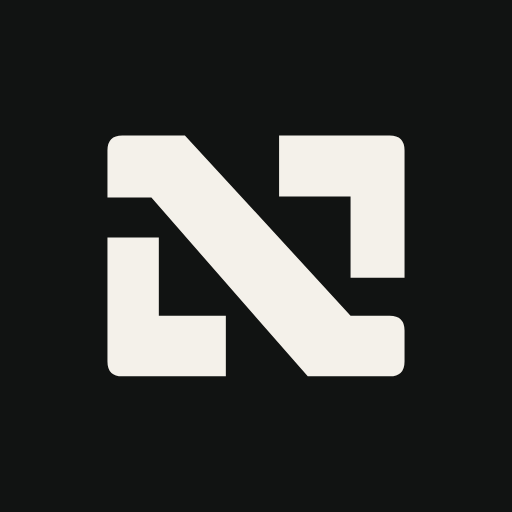
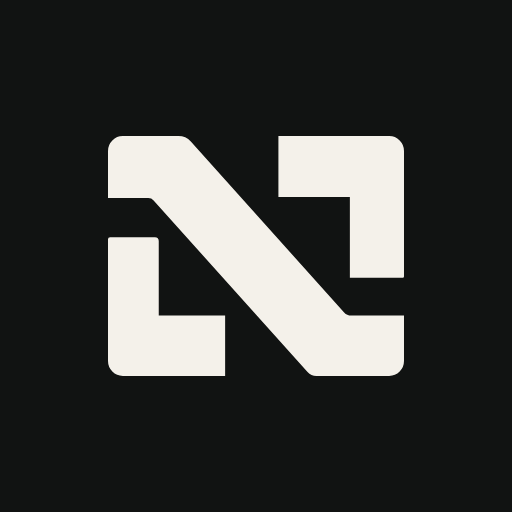
One true N: the mark rebuilt from the original artwork, everywhere
The vector N had drifted from the original mark (10.4% of pixels off),
and the app icons used an older, steeper N. Rebuilt the mark as three
clean shapes measured from the v3 brand book artwork (within 0.6%, the
rest is the PNG's own stair-stepping) and applied it in brand colors:
- photos/logo: nenemi-mark.svg (ink), new nenemi-mark-white.svg (warm
  white), n-mark.svg, and both stacked lockup PNGs (wordmark untouched)
- app: splash, 19b name card, header mark, favicon (index.html + the two
  prototype copies, byte-identical)
- icons: n-180, n-192, n-512, maskable-512, iOS AppIcon (warm white
  #F4F1EA on ink #111312, same size and placement as before)
- welcome.html header and footer marks
- Brand Book v4: every mark uses the new paths
sw.js cache bumped to v5 so installed apps pick up the new icons.
QA sweep 34/34 PASS.

Claude-Session: https://claude.ai/code/session_017xgkWVjvCdAF3e8sUfJeBE

diff --git a/index.html b/index.html
@@ -20,7 +20,7 @@
 <meta name="description" content="A memory app for ADHD brains. Rooms hold your context so you never restart from zero." />
 <meta name="theme-color" content="#0A0A0A" />
 <link rel="manifest" href="/manifest.webmanifest?v=2" />
[2 lines of base64/hex data omitted]
 <link rel="apple-touch-icon" href="/icons/n-180.png" />
 <meta name="apple-mobile-web-app-capable" content="yes" />
 <meta name="mobile-web-app-capable" content="yes" />
@@ -2213,7 +2213,7 @@
 <!-- the splash: every load, for everyone. pure CSS timing; the script removes it at 2s (or on a tap / key) and says so. -->
 <div id="nxSplash" aria-hidden="true">
   <div class="nx-splash-float">
-    <svg class="nx-splash-mark" viewBox="92 168 838 687"><g fill="#FFFFFF"><path d="M152 188 H320 L765 672 H870 Q910 672 910 712 V795 Q910 835 870 835 H650 L230 355 H112 V228 Q112 188 152 188 Z"/><path d="M573 188 H870 Q910 188 910 228 V570 H765 V352 H573 Z"/><path d="M112 462 H250 V672 H430 V835 H152 Q112 835 112 795 Z"/></g></svg>
+    <svg class="nx-splash-mark" viewBox="0 0 1400 1134"><g fill="#FFFFFF"><path d="M0 70A70 70 0 0 1 70 0H333Q368.3 0 391.7 26L1116.9 834.1Q1130.3 849 1150.3 849H1400V1064A70 70 0 0 1 1330 1134H985.5Q960.5 1134 943.8 1115.4L215.7 304.2Q205.7 293 190.7 293H0Z"/><path d="M806 0H1330A70 70 0 0 1 1400 70V664Q1400 670 1394 670H1144V288H806Z"/><path d="M0 488Q0 478 10 478H222Q240 478 240 496V849H554V1134H70A70 70 0 0 1 0 1064Z"/></g></svg>
     <div class="nx-splash-word">NENEMI</div>
   </div>
 </div>
@@ -2360,7 +2360,7 @@
 
   <!-- 19b: the name, the same moment as the footer on mynenemi.com -->
   <section class="card nenemi-definition-card" id="ob-definition">
-    <svg class="name-mark" viewBox="92 168 838 687" aria-hidden="true"><g fill="#FFFFFF"><path d="M152 188 H320 L765 672 H870 Q910 672 910 712 V795 Q910 835 870 835 H650 L230 355 H112 V228 Q112 188 152 188 Z"/><path d="M573 188 H870 Q910 188 910 228 V570 H765 V352 H573 Z"/><path d="M112 462 H250 V672 H430 V835 H152 Q112 835 112 795 Z"/></g></svg>
+    <svg class="name-mark" viewBox="0 0 1400 1134" aria-hidden="true"><g fill="#FFFFFF"><path d="M0 70A70 70 0 0 1 70 0H333Q368.3 0 391.7 26L1116.9 834.1Q1130.3 849 1150.3 849H1400V1064A70 70 0 0 1 1330 1134H985.5Q960.5 1134 943.8 1115.4L215.7 304.2Q205.7 293 190.7 293H0Z"/><path d="M806 0H1330A70 70 0 0 1 1400 70V664Q1400 670 1394 670H1144V288H806Z"/><path d="M0 488Q0 478 10 478H222Q240 478 240 496V849H554V1134H70A70 70 0 0 1 0 1064Z"/></g></svg>
     <p class="name-kicker">The name</p>
     <p class="name-brand">NENEMI</p>
     <h2 class="name-say">neh-NEH-mee</h2>
@@ -2524,7 +2524,7 @@
       </div>
     </div>
     <div class="wordmark" aria-label="Nenemi" onclick="goSanctuary()">
[2 lines of base64/hex data omitted]
       <span class="wm-text">NENEMI</span>
     </div>
     <div class="nav-overlay" id="navOverlay" onclick="closeNavDrawer()"></div>

diff --git a/nenemi-handover/prototypes/index.html b/nenemi-handover/prototypes/index.html
@@ -20,7 +20,7 @@
 <meta name="description" content="A memory app for ADHD brains. Rooms hold your context so you never restart from zero." />
 <meta name="theme-color" content="#0A0A0A" />
 <link rel="manifest" href="/manifest.webmanifest?v=2" />
[2 lines of base64/hex data omitted]
 <link rel="apple-touch-icon" href="/icons/n-180.png" />
 <meta name="apple-mobile-web-app-capable" content="yes" />
 <meta name="mobile-web-app-capable" content="yes" />
@@ -2213,7 +2213,7 @@
 <!-- the splash: every load, for everyone. pure CSS timing; the script removes it at 2s (or on a tap / key) and says so. -->
 <div id="nxSplash" aria-hidden="true">
   <div class="nx-splash-float">
-    <svg class="nx-splash-mark" viewBox="92 168 838 687"><g fill="#FFFFFF"><path d="M152 188 H320 L765 672 H870 Q910 672 910 712 V795 Q910 835 870 835 H650 L230 355 H112 V228 Q112 188 152 188 Z"/><path d="M573 188 H870 Q910 188 910 228 V570 H765 V352 H573 Z"/><path d="M112 462 H250 V672 H430 V835 H152 Q112 835 112 795 Z"/></g></svg>
+    <svg class="nx-splash-mark" viewBox="0 0 1400 1134"><g fill="#FFFFFF"><path d="M0 70A70 70 0 0 1 70 0H333Q368.3 0 391.7 26L1116.9 834.1Q1130.3 849 1150.3 849H1400V1064A70 70 0 0 1 1330 1134H985.5Q960.5 1134 943.8 1115.4L215.7 304.2Q205.7 293 190.7 293H0Z"/><path d="M806 0H1330A70 70 0 0 1 1400 70V664Q1400 670 1394 670H1144V288H806Z"/><path d="M0 488Q0 478 10 478H222Q240 478 240 496V849H554V1134H70A70 70 0 0 1 0 1064Z"/></g></svg>
     <div class="nx-splash-word">NENEMI</div>
   </div>
 </div>
@@ -2360,7 +2360,7 @@
 
   <!-- 19b: the name, the same moment as the footer on mynenemi.com -->
   <section class="card nenemi-definition-card" id="ob-definition">
-    <svg class="name-mark" viewBox="92 168 838 687" aria-hidden="true"><g fill="#FFFFFF"><path d="M152 188 H320 L765 672 H870 Q910 672 910 712 V795 Q910 835 870 835 H650 L230 355 H112 V228 Q112 188 152 188 Z"/><path d="M573 188 H870 Q910 188 910 228 V570 H765 V352 H573 Z"/><path d="M112 462 H250 V672 H430 V835 H152 Q112 835 112 795 Z"/></g></svg>
+    <svg class="name-mark" viewBox="0 0 1400 1134" aria-hidden="true"><g fill="#FFFFFF"><path d="M0 70A70 70 0 0 1 70 0H333Q368.3 0 391.7 26L1116.9 834.1Q1130.3 849 1150.3 849H1400V1064A70 70 0 0 1 1330 1134H985.5Q960.5 1134 943.8 1115.4L215.7 304.2Q205.7 293 190.7 293H0Z"/><path d="M806 0H1330A70 70 0 0 1 1400 70V664Q1400 670 1394 670H1144V288H806Z"/><path d="M0 488Q0 478 10 478H222Q240 478 240 496V849H554V1134H70A70 70 0 0 1 0 1064Z"/></g></svg>
     <p class="name-kicker">The name</p>
     <p class="name-brand">NENEMI</p>
     <h2 class="name-say">neh-NEH-mee</h2>
@@ -2524,7 +2524,7 @@
       </div>
     </div>
     <div class="wordmark" aria-label="Nenemi" onclick="goSanctuary()">
[2 lines of base64/hex data omitted]
       <span class="wm-text">NENEMI</span>
     </div>
     <div class="nav-overlay" id="navOverlay" onclick="closeNavDrawer()"></div>

diff --git a/nenemi-handover/prototypes/nenemi-prototype-desktop.html b/nenemi-handover/prototypes/nenemi-prototype-desktop.html
@@ -20,7 +20,7 @@
 <meta name="description" content="A memory app for ADHD brains. Rooms hold your context so you never restart from zero." />
 <meta name="theme-color" content="#0A0A0A" />
 <link rel="manifest" href="/manifest.webmanifest?v=2" />
[2 lines of base64/hex data omitted]
 <link rel="apple-touch-icon" href="/icons/n-180.png" />
 <meta name="apple-mobile-web-app-capable" content="yes" />
 <meta name="mobile-web-app-capable" content="yes" />
@@ -2213,7 +2213,7 @@
 <!-- the splash: every load, for everyone. pure CSS timing; the script removes it at 2s (or on a tap / key) and says so. -->
 <div id="nxSplash" aria-hidden="true">
   <div class="nx-splash-float">
-    <svg class="nx-splash-mark" viewBox="92 168 838 687"><g fill="#FFFFFF"><path d="M152 188 H320 L765 672 H870 Q910 672 910 712 V795 Q910 835 870 835 H650 L230 355 H112 V228 Q112 188 152 188 Z"/><path d="M573 188 H870 Q910 188 910 228 V570 H765 V352 H573 Z"/><path d="M112 462 H250 V672 H430 V835 H152 Q112 835 112 795 Z"/></g></svg>
+    <svg class="nx-splash-mark" viewBox="0 0 1400 1134"><g fill="#FFFFFF"><path d="M0 70A70 70 0 0 1 70 0H333Q368.3 0 391.7 26L1116.9 834.1Q1130.3 849 1150.3 849H1400V1064A70 70 0 0 1 1330 1134H985.5Q960.5 1134 943.8 1115.4L215.7 304.2Q205.7 293 190.7 293H0Z"/><path d="M806 0H1330A70 70 0 0 1 1400 70V664Q1400 670 1394 670H1144V288H806Z"/><path d="M0 488Q0 478 10 478H222Q240 478 240 496V849H554V1134H70A70 70 0 0 1 0 1064Z"/></g></svg>
     <div class="nx-splash-word">NENEMI</div>
   </div>
 </div>
@@ -2360,7 +2360,7 @@
 
   <!-- 19b: the name, the same moment as the footer on mynenemi.com -->
   <section class="card nenemi-definition-card" id="ob-definition">
-    <svg class="name-mark" viewBox="92 168 838 687" aria-hidden="true"><g fill="#FFFFFF"><path d="M152 188 H320 L765 672 H870 Q910 672 910 712 V795 Q910 835 870 835 H650 L230 355 H112 V228 Q112 188 152 188 Z"/><path d="M573 188 H870 Q910 188 910 228 V570 H765 V352 H573 Z"/><path d="M112 462 H250 V672 H430 V835 H152 Q112 835 112 795 Z"/></g></svg>
+    <svg class="name-mark" viewBox="0 0 1400 1134" aria-hidden="true"><g fill="#FFFFFF"><path d="M0 70A70 70 0 0 1 70 0H333Q368.3 0 391.7 26L1116.9 834.1Q1130.3 849 1150.3 849H1400V1064A70 70 0 0 1 1330 1134H985.5Q960.5 1134 943.8 1115.4L215.7 304.2Q205.7 293 190.7 293H0Z"/><path d="M806 0H1330A70 70 0 0 1 1400 70V664Q1400 670 1394 670H1144V288H806Z"/><path d="M0 488Q0 478 10 478H222Q240 478 240 496V849H554V1134H70A70 70 0 0 1 0 1064Z"/></g></svg>
     <p class="name-kicker">The name</p>
     <p class="name-brand">NENEMI</p>
     <h2 class="name-say">neh-NEH-mee</h2>
@@ -2524,7 +2524,7 @@
       </div>
     </div>
     <div class="wordmark" aria-label="Nenemi" onclick="goSanctuary()">
[2 lines of base64/hex data omitted]
       <span class="wm-text">NENEMI</span>
     </div>
     <div class="nav-overlay" id="navOverlay" onclick="closeNavDrawer()"></div>

diff --git a/welcome.html b/welcome.html
@@ -332,7 +332,7 @@
 
 <div class="reveal">
 <nav class="nav"><div class="wrap nav-in">
[2 lines of base64/hex data omitted]
   <div class="nav-r">
     <a class="lk desk" href="#day">Day</a>
     <a class="lk desk" href="#rooms">Rooms</a>
@@ -519,7 +519,7 @@
   </svg>
   <div class="wrap">
   <div class="foot-center">
[2 lines of base64/hex data omitted]
     <p class="foot-eyebrow">The name</p>
     <p class="foot-name">NENEMI</p>
     <p class="foot-say-it">neh-NEH-mee</p>

diff --git a/nenemi-handover/docs/nenemi-brand-book.html b/nenemi-handover/docs/nenemi-brand-book.html
@@ -253,18 +253,18 @@
 </head>
 <body>
 
-<!-- the mark: same paths as photos/logo/nenemi-mark.svg and the app's splash -->
+<!-- the mark: rebuilt from the original v3 mark artwork (within 0.6%); same paths as photos/logo/nenemi-mark.svg, the app's splash and 19b -->
 <svg width="0" height="0" style="position:absolute" aria-hidden="true">
-  <symbol id="n" viewBox="92 168 838 687"><path d="M152 188 H320 L765 672 H870 Q910 672 910 712 V795 Q910 835 870 835 H650 L230 355 H112 V228 Q112 188 152 188 Z"/><path d="M573 188 H870 Q910 188 910 228 V570 H765 V352 H573 Z"/><path d="M112 462 H250 V672 H430 V835 H152 Q112 835 112 795 Z"/></symbol>
+  <symbol id="n" viewBox="0 0 1400 1134"><path d="M0 70A70 70 0 0 1 70 0H333Q368.3 0 391.7 26L1116.9 834.1Q1130.3 849 1150.3 849H1400V1064A70 70 0 0 1 1330 1134H985.5Q960.5 1134 943.8 1115.4L215.7 304.2Q205.7 293 190.7 293H0Z"/><path d="M806 0H1330A70 70 0 0 1 1400 70V664Q1400 670 1394 670H1144V288H806Z"/><path d="M0 488Q0 478 10 478H222Q240 478 240 496V849H554V1134H70A70 70 0 0 1 0 1064Z"/></symbol>
 </svg>
 
 <div class="docbar"><div class="wrap">
-  <div class="brand"><svg class="n" viewBox="92 168 838 687"><use href="#n"/></svg><span class="wm">NENEMI</span></div>
+  <div class="brand"><svg class="n" viewBox="0 0 1400 1134"><use href="#n"/></svg><span class="wm">NENEMI</span></div>
   <nav><a href="#story">Story</a><a href="#mark">Mark</a><a href="#color">Color</a><a href="#type">Type</a><a href="#shape">Shape</a><a href="#ui">UI</a><a href="#screens">Screens</a><a href="#rules">Rules</a><a href="#voice">Voice</a><a href="#research">Research</a><a href="#qa">QA</a></nav>
 </div></div>
 
 <header class="cover"><div class="wrap">
-  <svg class="n mark" viewBox="92 168 838 687" role="img" aria-label="NENEMI"><use href="#n"/></svg>
+  <svg class="n mark" viewBox="0 0 1400 1134" role="img" aria-label="NENEMI"><use href="#n"/></svg>
   <div class="eyebrow">Brand Book · v4.0 · Monochrome</div>
   <h1 class="display">NENEMI.<br>The box.</h1>
   <p class="sub">People with ADHD have every crayon and no box. <strong>Nenemi is the box</strong>: somewhere to put a thought down without organizing it first, and pick it back up exactly where you left it. <em>Nenemi</em> is Nahuatl for <strong>to walk, to go about</strong>. Your path doesn't have to be straight to keep moving.</p>
@@ -296,7 +296,7 @@
   <h3>The name</h3>
   <div class="grid g2" style="align-items:center">
     <div class="name-card">
-      <svg class="n" viewBox="92 168 838 687"><use href="#n"/></svg>
+      <svg class="n" viewBox="0 0 1400 1134"><use href="#n"/></svg>
       <div class="k">The name</div>
       <div class="w">NENEMI</div>
       <div class="p">neh-NEH-mee</div>
@@ -329,16 +329,16 @@
   <p>The terraces nod to the Aztec <em>xicalcoliuhqui</em>, the stepped fret carved at Teotihuacan and Templo Mayor. Stone steps you climb, leave, and come back to, and they stay exactly as they were.</p>
 
   <div class="grid g4" style="margin-top:24px">
-    <div><div class="lk white"><svg class="n" viewBox="92 168 838 687"><use href="#n"/></svg></div><div class="lk-cap">Symbol · primary</div></div>
-    <div><div class="lk ink"><svg class="n" viewBox="92 168 838 687"><use href="#n"/></svg></div><div class="lk-cap">Symbol · on ink (splash)</div></div>
-    <div><div class="lk white"><svg class="n" viewBox="92 168 838 687" style="width:44px;height:36px"><use href="#n"/></svg><span class="wm">NENEMI</span></div><div class="lk-cap">Horizontal lockup</div></div>
-    <div><div class="lk ink" style="flex-direction:column;gap:14px"><svg class="n" viewBox="92 168 838 687" style="width:52px;height:43px"><use href="#n"/></svg><span class="wm" style="font-size:13px;letter-spacing:.36em;padding-left:.36em">NENEMI</span></div><div class="lk-cap">Stacked · the splash</div></div>
+    <div><div class="lk white"><svg class="n" viewBox="0 0 1400 1134"><use href="#n"/></svg></div><div class="lk-cap">Symbol · primary</div></div>
+    <div><div class="lk ink"><svg class="n" viewBox="0 0 1400 1134"><use href="#n"/></svg></div><div class="lk-cap">Symbol · on ink (splash)</div></div>
+    <div><div class="lk white"><svg class="n" viewBox="0 0 1400 1134" style="width:44px;height:36px"><use href="#n"/></svg><span class="wm">NENEMI</span></div><div class="lk-cap">Horizontal lockup</div></div>
+    <div><div class="lk ink" style="flex-direction:column;gap:14px"><svg class="n" viewBox="0 0 1400 1134" style="width:52px;height:43px"><use href="#n"/></svg><span class="wm" style="font-size:13px;letter-spacing:.36em;padding-left:.36em">NENEMI</span></div><div class="lk-cap">Stacked · the splash</div></div>
   </div>
 
   <h3>App tile</h3>
   <div class="grid g4">
-    <div><div class="lk ground" style="min-height:auto"><div class="tile" style="background:var(--ink);color:#fff"><svg class="n" viewBox="92 168 838 687"><use href="#n"/></svg></div></div><div class="lk-cap">White on ink · primary</div></div>
-    <div><div class="lk ground" style="min-height:auto"><div class="tile" style="background:#fff;border:1px solid var(--line)"><svg class="n" viewBox="92 168 838 687"><use href="#n"/></svg></div></div><div class="lk-cap">Ink on white</div></div>
+    <div><div class="lk ground" style="min-height:auto"><div class="tile" style="background:var(--ink);color:#fff"><svg class="n" viewBox="0 0 1400 1134"><use href="#n"/></svg></div></div><div class="lk-cap">White on ink · primary</div></div>
+    <div><div class="lk ground" style="min-height:auto"><div class="tile" style="background:#fff;border:1px solid var(--line)"><svg class="n" viewBox="0 0 1400 1134"><use href="#n"/></svg></div></div><div class="lk-cap">Ink on white</div></div>
   </div>
 
   <h3>Wordmark, clear space, size</h3>
@@ -347,10 +347,10 @@
 
   <h3>Do &amp; don't</h3>
   <div class="grid g4 dd">
-    <div class="card"><div class="stg" style="background:#fff;border:1px solid var(--line)"><svg class="n" viewBox="92 168 838 687"><use href="#n"/></svg></div><div class="verdict"><i class="ok">✓</i><span>Solid ink on white or ground.</span></div></div>
-    <div class="card"><div class="stg" style="background:var(--ink);color:#fff"><svg class="n" viewBox="92 168 838 687"><use href="#n"/></svg></div><div class="verdict"><i class="ok">✓</i><span>White on ink.</span></div></div>
-    <div class="card"><div class="stg"><svg class="n" viewBox="92 168 838 687" preserveAspectRatio="none" style="width:104px;height:38px"><use href="#n"/></svg></div><div class="verdict"><i class="no">✕</i><span>Don't stretch or squash.</span></div></div>
-    <div class="card"><div class="stg" style="background:var(--teal);color:#fff"><svg class="n" viewBox="92 168 838 687"><use href="#n"/></svg></div><div class="verdict"><i class="no">✕</i><span>Don't put it on color. Not teal, not maíz, not a gradient. (v3 allowed teal and maíz tiles; v4 retires them.)</span></div></div>
+    <div class="card"><div class="stg" style="background:#fff;border:1px solid var(--line)"><svg class="n" viewBox="0 0 1400 1134"><use href="#n"/></svg></div><div class="verdict"><i class="ok">✓</i><span>Solid ink on white or ground.</span></div></div>
+    <div class="card"><div class="stg" style="background:var(--ink);color:#fff"><svg class="n" viewBox="0 0 1400 1134"><use href="#n"/></svg></div><div class="verdict"><i class="ok">✓</i><span>White on ink.</span></div></div>
+    <div class="card"><div class="stg"><svg class="n" viewBox="0 0 1400 1134" preserveAspectRatio="none" style="width:104px;height:38px"><use href="#n"/></svg></div><div class="verdict"><i class="no">✕</i><span>Don't stretch or squash.</span></div></div>
+    <div class="card"><div class="stg" style="background:var(--teal);color:#fff"><svg class="n" viewBox="0 0 1400 1134"><use href="#n"/></svg></div><div class="verdict"><i class="no">✕</i><span>Don't put it on color. Not teal, not maíz, not a gradient. (v3 allowed teal and maíz tiles; v4 retires them.)</span></div></div>
   </div>
 </div></section>
 
@@ -531,7 +531,7 @@
 
   <h3>Always dark</h3>
   <div class="grid g3">
-    <div class="act dark" style="min-height:160px;align-items:center;justify-content:center"><svg class="n" viewBox="92 168 838 687" style="width:52px;height:43px;color:#fff"><use href="#n"/></svg><div class="wm" style="font-size:13px;letter-spacing:.36em;padding-left:.36em;margin-top:14px;color:#fff">NENEMI</div></div>
+    <div class="act dark" style="min-height:160px;align-items:center;justify-content:center"><svg class="n" viewBox="0 0 1400 1134" style="width:52px;height:43px;color:#fff"><use href="#n"/></svg><div class="wm" style="font-size:13px;letter-spacing:.36em;padding-left:.36em;margin-top:14px;color:#fff">NENEMI</div></div>
     <div class="card"><div class="cap">The splash</div><p style="font-size:14px;margin:0">Every load, for everyone. The mark and wordmark fade in over 400ms, hold 1000ms, then fade out over 400ms into the Front Door (about 1.8s). A tap or Enter/Space/Esc skips it.</p></div>
     <div class="card"><div class="cap">The dark sanctuary</div><p style="font-size:14px;margin:0">Stuck, Focus, Friction, and Human support are dark in every theme. No glare when someone is frozen. Accents are light carbon.</p></div>
   </div>
@@ -646,7 +646,7 @@
     <li><b>Color:</b> strictly monochrome. Cyan, mint, and green are gone. Signature teal left the app and now lives only on the 1b and 19b kickers.</li>
     <li><b>Completion:</b> an ink check and carbon strike-through, like a paper notebook. No mint.</li>
     <li><b>Maíz:</b> still for returning, but never counted. "3 days in a row" is retired, because a streak is a score.</li>
-    <li><b>The mark:</b> ink and white only. Teal and maíz tiles are retired. The book now draws the mark as vector (the same paths as <span class="mono">photos/logo/nenemi-mark.svg</span>).</li>
+    <li><b>The mark:</b> ink and white only. Teal and maíz tiles are retired. The mark is now one exact vector, rebuilt from the original artwork, and every copy (this book, <span class="mono">photos/logo/</span>, the splash, 19b, the app header, favicon, home-screen and iPhone icons, the landing page) uses it.</li>
     <li><b>Shape:</b> 12px cards, 8px controls, pill navigation, hairlines only (v3 used 18–22px cards and 100px buttons).</li>
     <li><b>Type:</b> Inter for UI, Archivo 700 for page titles, and Archivo Black 900 for the Front Door and the onboarding hooks.</li>
     <li><b>New:</b> the Front Porch and Place, the three onboarding acts, the mid-conversation escape, and the QA sweep.</li>
@@ -654,7 +654,7 @@
 </div></section>
 
 <footer><div class="wrap">
-  <svg class="n" viewBox="92 168 838 687"><use href="#n"/></svg>
+  <svg class="n" viewBox="0 0 1400 1134"><use href="#n"/></svg>
   <div class="kick">The principle</div>
   <p class="display big">Your path doesn't have to be straight to keep moving.</p>
   <p class="tag">Nenemi is the box.</p>

diff --git a/sw.js b/sw.js
@@ -2,7 +2,7 @@
 // available offline. Network-first for the page so updates flow through;
 // the API is never cached (sync handles offline on its own via localStorage).
 
-const VERSION = 'nenemi-shell-v4';
+const VERSION = 'nenemi-shell-v5'; // v5: the corrected N mark in the icons
 const SHELL = ['/', '/index.html', '/manifest.webmanifest', '/icons/n-192.png', '/icons/n-512.png', '/icons/n-180.png', '/icons/nenemi-mark.woff2', '/welcome.html'];
 
 self.addEventListener('install', (event) => {
